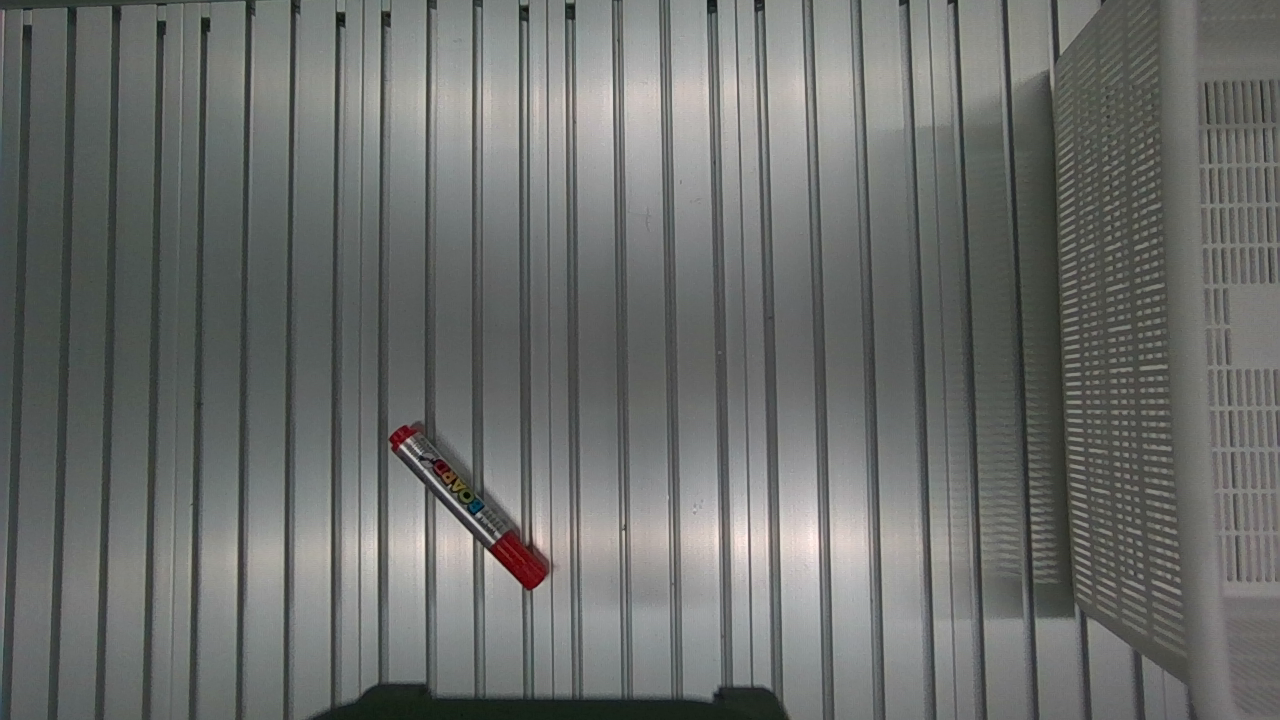
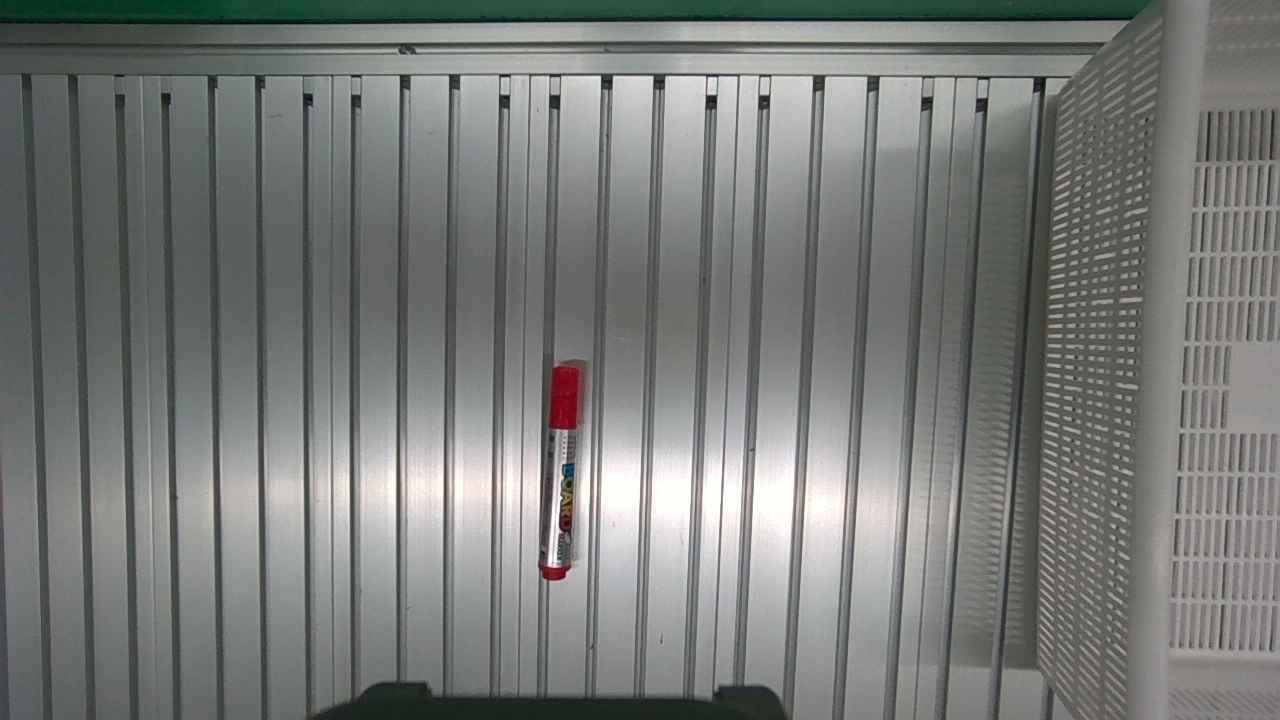
dataset_complete

diff --git a/ToDo.md b/ToDo.md
@@ -454,3 +454,24 @@
         noise; allreduce of ~104 MB bf16 grad scales with model size,
         not batch size).
 - [x] commit + push (a9ff2571) + close issue (#35)
+
+## 2026-04-22: Diagnose inactive arrow-key controls in lerobot-record
+
+- User asked why Right/Left/Esc shortcuts in `5__fr5_record.sh` do
+  not work on the FR5 control PC. Diagnostic only — no code change.
+- Finding: `init_keyboard_listener()`
+  ([src/lerobot/utils/control_utils.py:119-169](src/lerobot/utils/control_utils.py#L119-L169))
+  uses pynput's xorg backend
+  (`pynput.keyboard._xorg.Listener`, verified in both `.venv` and
+  conda `lerobot` env). The session is Wayland
+  (`XDG_SESSION_TYPE=wayland`, `loginctl Type=wayland`), which blocks
+  X11 global key capture — listener starts cleanly but receives no
+  events. Secondary: `--display_data=true` Rerun viewer can steal
+  focus.
+- Remediation options presented to user:
+  1. Switch login session to "Ubuntu on Xorg" (no code change).
+  2. Replace pynput listener with `evdev` reader on
+     `/dev/input/event*` (input group or root needed).
+  3. Add termios/stdin fallback when terminal has focus.
+- [x] Create gh issue (#36)
+- [x] User decision: hold — no code change this turn.
